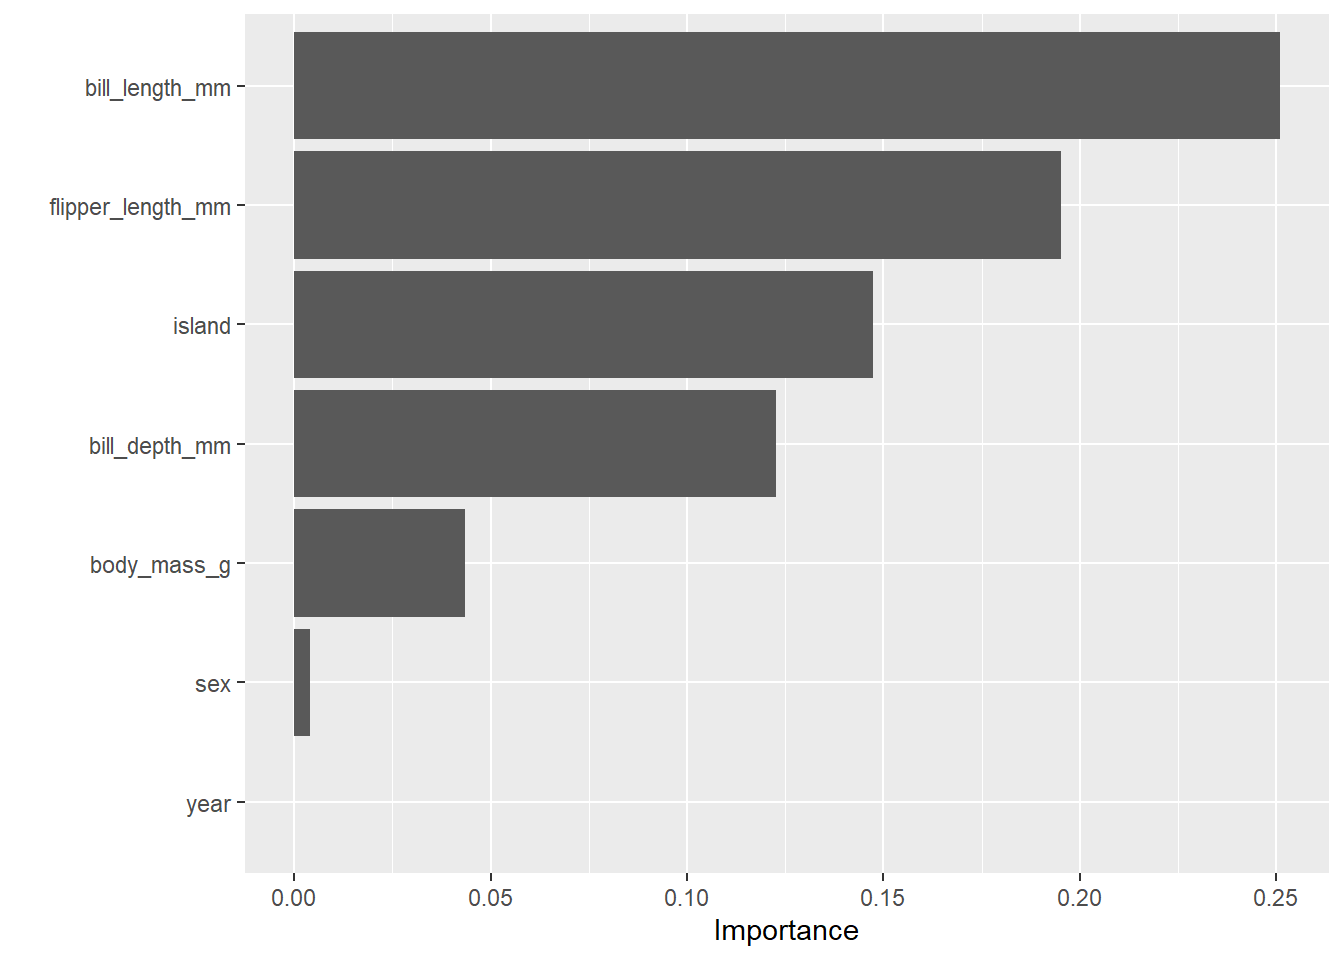
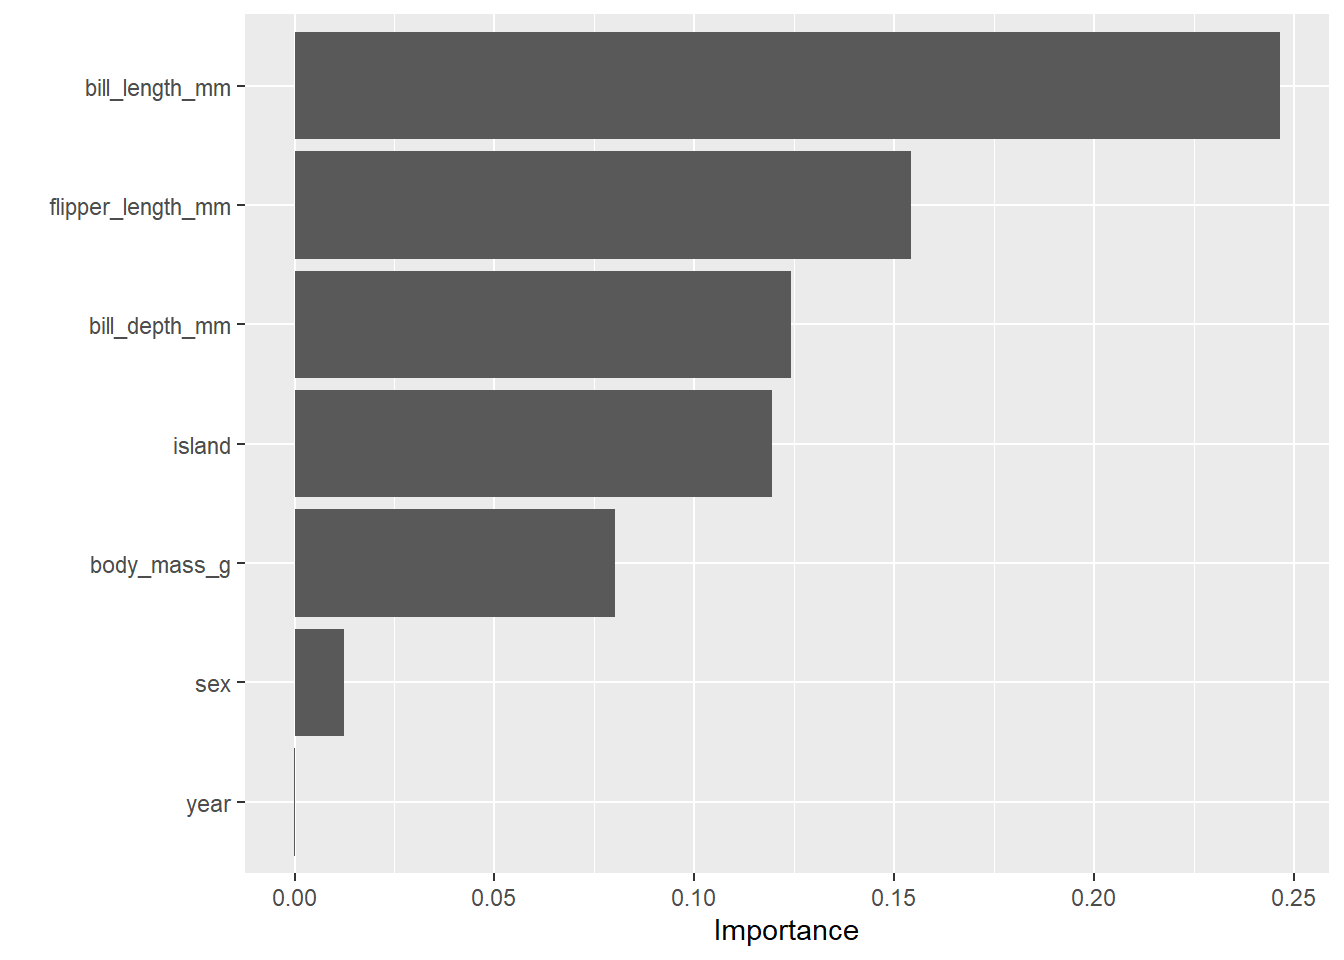
added details of random forest

diff --git a/docs/ML_post/2023-12-06-my-blog-post3/index.html b/docs/ML_post/2023-12-06-my-blog-post3/index.html
@@ -212,6 +212,7 @@ gtag('config', 'G-WPPJJR0N52', { 'anonymize_ip': true});
 
 
 <p>In this blog regarding classification algorithms, we will see about the multiclass random forest model using penguins data. Based on certain features of penguins will try to train a multiclass random forest model and predict the penguin species.</p>
+<p>Random Forest is a robust and versatile ensemble learning technique widely employed for both classification and regression tasks. Comprising an ensemble of decision trees, each tree is trained on a bootstrapped sample of the original dataset and considers a random subset of features at each split, mitigating overfitting. The model’s predictions are determined through a majority vote in classification or an average in regression, fostering accuracy and stability. Notably, Random Forest provides insights into feature importance, aiding in the identification of variables contributing significantly to predictive performance. It exhibits resilience against overfitting, particularly due to its feature randomization and bootstrapping mechanisms. Hyperparameter tuning can further enhance the model’s performance, making Random Forest a versatile and powerful tool in machine learning applications.</p>
 <section id="required-libraries" class="level2">
 <h2 class="anchored" data-anchor-id="required-libraries">1. Required libraries</h2>
 <div class="cell">
@@ -244,7 +245,7 @@ gtag('config', 'G-WPPJJR0N52', { 'anonymize_ip': true});
 ✖ dplyr::lag()      masks stats::lag()
 ✖ yardstick::spec() masks readr::spec()
 ✖ recipes::step()   masks stats::step()
-• Use tidymodels_prefer() to resolve common conflicts.</code></pre>
+• Search for functions across packages at https://www.tidymodels.org/find/</code></pre>
 </div>
 <div class="sourceCode cell-code" id="cb5"><pre class="sourceCode r code-with-copy"><code class="sourceCode r"><span id="cb5-1"><a href="#cb5-1" aria-hidden="true" tabindex="-1"></a><span class="fu">library</span>(palmerpenguins)</span></code><button title="Copy to Clipboard" class="code-copy-button"><i class="bi"></i></button></pre></div>
 <div class="cell-output cell-output-stderr">
@@ -470,9 +471,9 @@ Computational engine: ranger </code></pre>
 <div class="cell-output cell-output-stdout">
 <pre><code>           Truth
 Prediction  Adelie Chinstrap Gentoo
-  Adelie      2842        73      5
-  Chinstrap     78      1282      0
-  Gentoo         0         5   2375</code></pre>
+  Adelie      2825        94      1
+  Chinstrap     65      1295      0
+  Gentoo         0        12   2368</code></pre>
 </div>
 </div>
 </section>
@@ -500,9 +501,9 @@ Prediction  Adelie Chinstrap Gentoo
 <pre><code>Random Forest Model Specification (classification)
 
 Main Arguments:
-  mtry = 4
+  mtry = 2
   trees = 1000
-  min_n = 2
+  min_n = 4
 
 Computational engine: ranger </code></pre>
 </div>
@@ -519,15 +520,15 @@ Computational engine: ranger </code></pre>
 <pre><code># A tibble: 2 × 4
   .metric  .estimator .estimate .config             
   &lt;chr&gt;    &lt;chr&gt;          &lt;dbl&gt; &lt;chr&gt;               
-1 accuracy multiclass     0.964 Preprocessor1_Model1
-2 roc_auc  hand_till      0.998 Preprocessor1_Model1</code></pre>
+1 accuracy multiclass     0.988 Preprocessor1_Model1
+2 roc_auc  hand_till      1     Preprocessor1_Model1</code></pre>
 </div>
 <div class="sourceCode cell-code" id="cb39"><pre class="sourceCode r code-with-copy"><code class="sourceCode r"><span id="cb39-1"><a href="#cb39-1" aria-hidden="true" tabindex="-1"></a>final_res <span class="sc">%&gt;%</span> <span class="fu">collect_predictions</span>() <span class="sc">%&gt;%</span> <span class="fu">conf_mat</span>(.pred_class, species )</span></code><button title="Copy to Clipboard" class="code-copy-button"><i class="bi"></i></button></pre></div>
 <div class="cell-output cell-output-stdout">
 <pre><code>           Truth
 Prediction  Adelie Chinstrap Gentoo
-  Adelie        35         2      0
-  Chinstrap      1        16      0
+  Adelie        36         1      0
+  Chinstrap      0        17      0
   Gentoo         0         0     30</code></pre>
 </div>
 <div class="sourceCode cell-code" id="cb41"><pre class="sourceCode r code-with-copy"><code class="sourceCode r"><span id="cb41-1"><a href="#cb41-1" aria-hidden="true" tabindex="-1"></a>final_prod <span class="ot">&lt;-</span> <span class="fu">workflow</span>() <span class="sc">%&gt;%</span> </span>
@@ -549,17 +550,17 @@ species ~ .
 Ranger result
 
 Call:
- ranger::ranger(x = maybe_data_frame(x), y = y, mtry = min_cols(~4L,      x), num.trees = ~1000, min.node.size = min_rows(~2L, x),      num.threads = 1, verbose = FALSE, seed = sample.int(10^5,          1), probability = TRUE) 
+ ranger::ranger(x = maybe_data_frame(x), y = y, mtry = min_cols(~2L,      x), num.trees = ~1000, min.node.size = min_rows(~4L, x),      num.threads = 1, verbose = FALSE, seed = sample.int(10^5,          1), probability = TRUE) 
 
 Type:                             Probability estimation 
 Number of trees:                  1000 
 Sample size:                      333 
 Number of independent variables:  7 
-Mtry:                             4 
-Target node size:                 2 
+Mtry:                             2 
+Target node size:                 4 
 Variable importance mode:         none 
 Splitrule:                        gini 
-OOB prediction error (Brier s.):  0.01537413 </code></pre>
+OOB prediction error (Brier s.):  0.01591039 </code></pre>
 </div>
 </div>
 </section>

diff --git a/docs/Blog.html b/docs/Blog.html
@@ -261,7 +261,7 @@ Dec 2, 2023
 </div>
 </a>
 </div>
-<div class="g-col-1" data-index="2" data-categories="Machine Learning" data-listing-date-sort="1701504000000" data-listing-file-modified-sort="1702338963979" data-listing-date-modified-sort="NaN" data-listing-reading-time-sort="2">
+<div class="g-col-1" data-index="2" data-categories="Machine Learning" data-listing-date-sort="1701504000000" data-listing-file-modified-sort="1702344115653" data-listing-date-modified-sort="NaN" data-listing-reading-time-sort="3">
 <a href="./ML_post/2023-12-06-my-blog-post3/index.html" class="quarto-grid-link">
 <div class="quarto-grid-item card h-100 card-left">
 <p class="card-img-top"><img src="ML_post\2023-12-06-my-blog-post3\index_files\figure-html\unnamed-chunk-3-1.png" style="height: 150px;"  class="thumbnail-image card-img"/></p>
